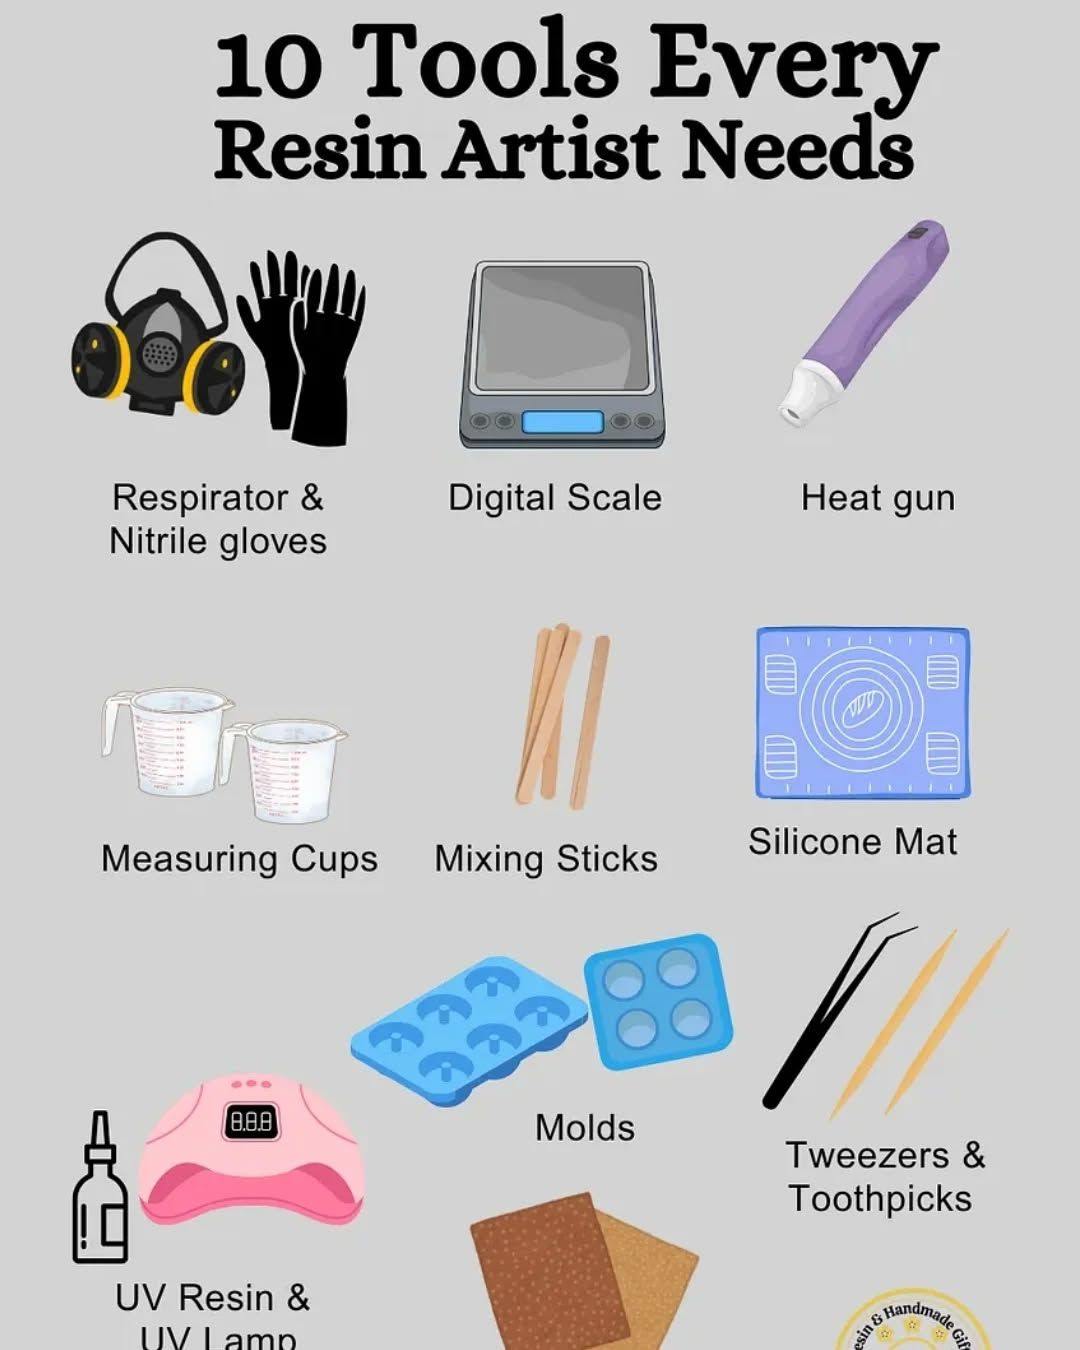
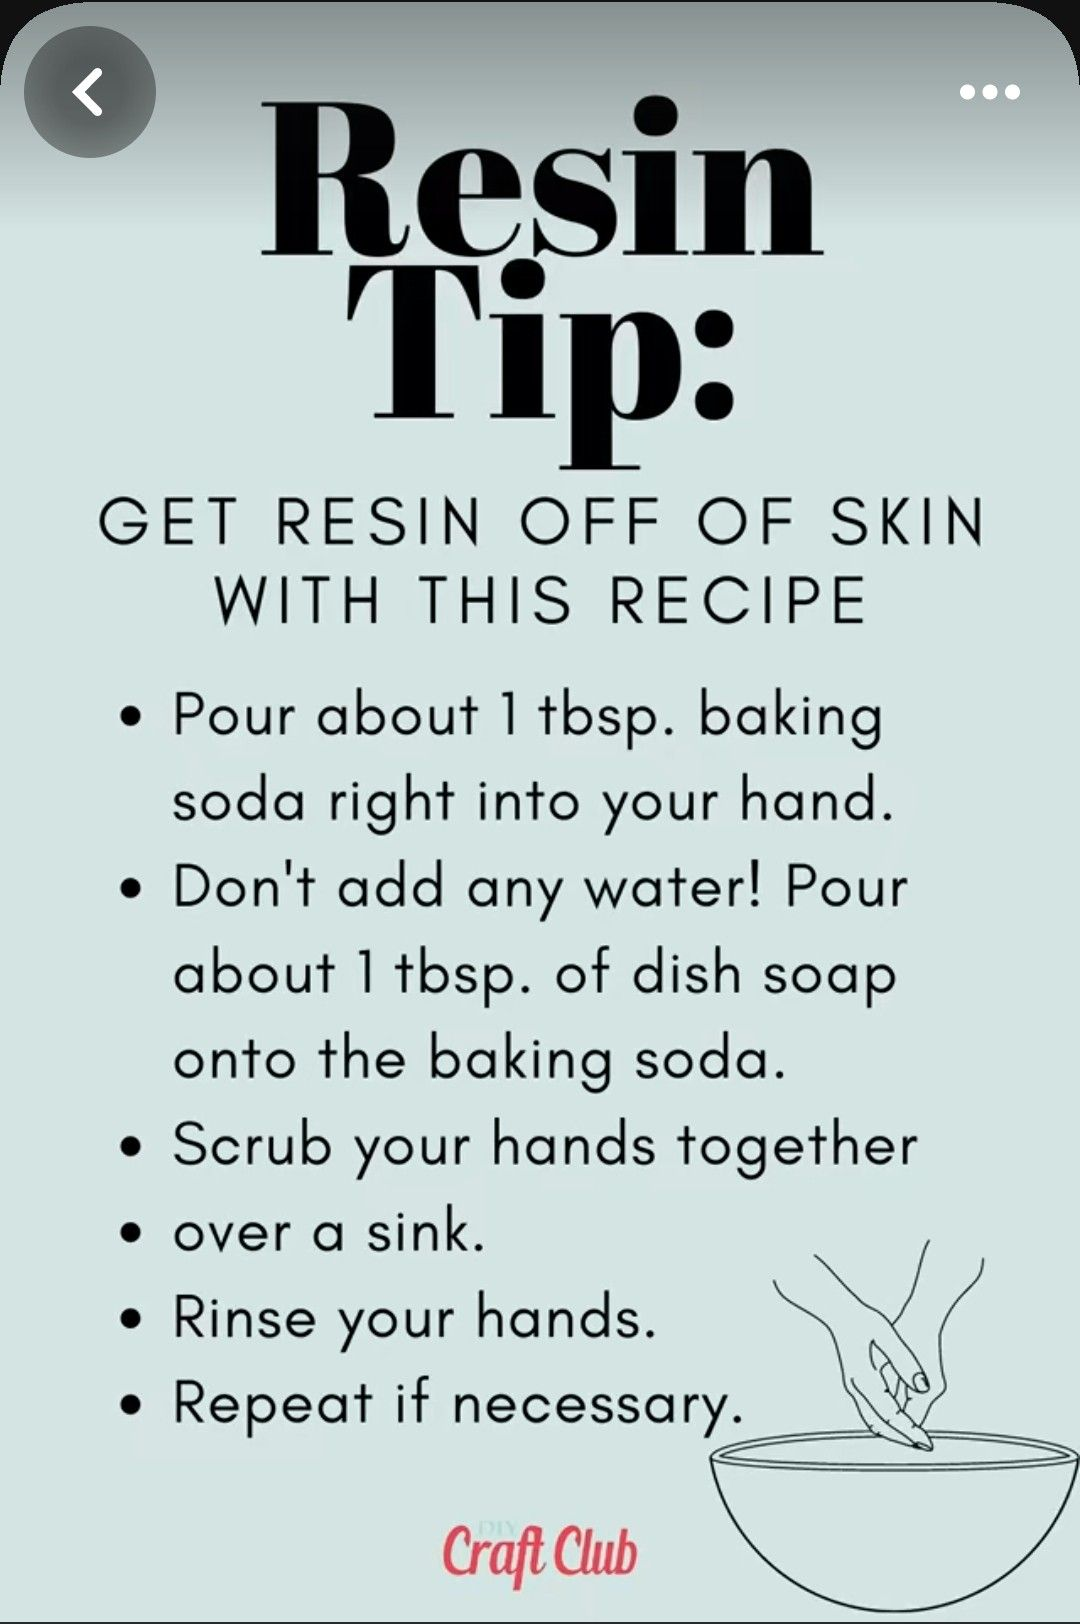
modify files

diff --git a/Home/home.html b/Home/home.html
@@ -10,6 +10,11 @@
   <script src="https://unpkg.com/lucide@latest/dist/umd/lucide.min.js"></script>
   <link rel="stylesheet" href="https://cdnjs.cloudflare.com/ajax/libs/font-awesome/7.0.1/css/all.min.css" integrity="sha512-2SwdPD6INVrV/lHTZbO2nodKhrnDdJK9/kg2XD1r9uGqPo1cUbujc+IYdlYdEErWNu69gVcYgdxlmVmzTWnetw==" crossorigin="anonymous" referrerpolicy="no-referrer" />
   <link rel="stylesheet" href="./home.css">
+  <script src="https://unpkg.com/lucide@latest"></script>
+
+<script>
+  lucide.createIcons();
+</script>
 </head>
 <body>
 
@@ -216,21 +221,21 @@
           <div class="showcase-card reveal">
             <div class="sc-img"><img src="./Images/wave.jpg" width="400" height="300" alt="Ocean Wave painting" loading="lazy" /></div>
             <div class="sc-body">
-              <h3>Ocean Wave Panel</h3><p>100×70 cm. Teal, white and gold pigment on birch board. Each wave is hand-poured for a unique finish.</p>
+              <h3>Ocean Wave Panel</h3><p>100×70 cm.Discover our latest Ocean Wave Wall Panels.these lightweight, fireproof, and waterproof panels fast installation and a sleek matt surface. Teal, white and gold pigment on birch board.</p>
               <div class="sc-meta"><span class="price">AED 1,800</span><a href="services.html" class="btn btn-primary btn-sm">Order Now</a></div>
             </div>
           </div>
           <div class="showcase-card reveal">
             <div class="sc-img"><img src="./Images/crystal.jpg" width="400" height="300" alt="Abstract geode art" loading="lazy" /></div>
             <div class="sc-body">
-              <h3>Crystal Geode Slice</h3><p>80×60 cm. Amethyst-inspired purple and silver pigments with crushed mica shimmer throughout.</p>
+              <h3>Crystal Geode Slice</h3><p>80×60 cm.Stunning geodes lined with quartz crystals have been cut into slices, Amethyst-inspired purple and silver pigments with crushed mica shimmer throughout.</p>
               <div class="sc-meta"><span class="price">AED 2,200</span><a href="services.html" class="btn btn-primary btn-sm">Order Now</a></div>
             </div>
           </div>
           <div class="showcase-card reveal">
             <div class="sc-img"><img src="./Images/desrt.jpg" width="400" height="300" alt="Desert sunset resin art" loading="lazy" /></div>
             <div class="sc-body">
-              <h3>Desert Sunset Canvas</h3><p>120×80 cm. Warm amber, burnt orange and crimson — a tribute to the desert horizon at dusk.</p>
+              <h3>Desert Sunset Canvas</h3><p>120×80 cm.Immerse yourself in the serene beauty of a desert sunset with this captivating wall art. Warm amber, burnt orange and crimson — a tribute to the desert horizon at dusk.</p>
               <div class="sc-meta"><span class="price">AED 2,900</span><a href="services.html" class="btn btn-primary btn-sm">Order Now</a></div>
             </div>
           </div>
@@ -433,37 +438,37 @@
       </div>
       <div class="awards-grid">
         <div class="award-card reveal">
-          <div class="award-icon"><i class="icon lucide-award"></i></div>
+          <div class="award-icon"><i class="icon" data-lucide="award"></i></div>
           <h3>Best Artisan Studio 2025</h3>
           <p>Dubai Design Week — voted by a panel of interior design professionals.</p>
           <span class="award-year">2025</span>
         </div>
         <div class="award-card reveal">
-          <div class="award-icon"><i class="icon lucide-star"></i></div>
+          <div class="award-icon"><i class="icon" data-lucide="star"></i></div>
           <h3>Top Creative Brand</h3>
           <p>Gulf Art &amp; Craft Fair — recognised for outstanding innovation in resin art.</p>
           <span class="award-year">2024</span>
         </div>
         <div class="award-card reveal">
-          <div class="award-icon"><i class="icon lucide-globe"></i></div>
+          <div class="award-icon"><i class="icon" data-lucide="globe"></i></div>
           <h3>International Craft Export Award</h3>
           <p>UAE Ministry of Culture — for expanding handmade art exports to 12+ countries.</p>
           <span class="award-year">2024</span>
         </div>
         <div class="award-card reveal">
-          <div class="award-icon"><i class="icon lucide-heart"></i></div>
+          <div class="award-icon"><i class="icon" data-lucide="heart"></i></div>
           <h3>Community Choice Award</h3>
           <p>Etsy UAE Community — highest-rated handmade home decor shop three years running.</p>
           <span class="award-year">2023–25</span>
         </div>
         <div class="award-card reveal">
-          <div class="award-icon"><i class="icon lucide-shield-check"></i></div>
+          <div class="award-icon"><i class="icon" data-lucide="shield-check"></i></div>
           <h3>Eco-Conscious Studio Cert.</h3>
           <p>Certified by Green Arts Initiative for sustainable sourcing and low-waste practices.</p>
           <span class="award-year">2023</span>
         </div>
         <div class="award-card reveal">
-          <div class="award-icon"><i class="icon lucide-trending-up"></i></div>
+          <div class="award-icon"><i class="icon" data-lucide="trending-up"></i></div>
           <h3>Fastest-Growing Art Brand</h3>
           <p>Forbes Middle East — featured in their 2023 creative economy spotlight edition.</p>
           <span class="award-year">2023</span>
@@ -488,7 +493,7 @@
     <div class="container">
       <div class="section-heading reveal" style="color:var(--text-on-dark)">
         <span class="section-eyebrow" style="color:var(--amber)">By the Numbers</span>
-        <h2 style="color:var(--text-on-dark)">ResinLux <span style="color:var(--secondary)">At a Glance</span></h2>
+        <h2 style="color:var(--text-on-dark)">ResinCraftStudio <span style="color:var(--secondary)">At a Glance</span></h2>
         <p style="color:rgba(255,255,255,0.75)">Six years of craftsmanship, community, and colour captured in a single snapshot.</p>
       </div>
       <div class="numbers-grid">
@@ -538,27 +543,27 @@
         <div class="tutorial-card featured reveal">
           <div class="tut-thumb">
             <img src="./Images/begin.jpg" width="700" height="420" alt="Beginner resin pour tutorial" loading="lazy" />
-            <div class="play-btn" aria-label="Play tutorial video"><i class="icon lucide-play-circle"></i></div>
+
             <span class="tut-badge">Most Watched</span>
           </div>
           <div class="tut-info">
             <span class="tut-tag">Beginner</span>
             <h3>Your First Resin Pour — Complete Guide</h3>
-            <p>45 min walkthrough covering tools, safety, colour mixing, and your first poured piece from start to finish.</p>
-            <div class="tut-meta"><i class="icon lucide-clock"></i> 45 min <i class="icon lucide-eye" style="margin-left:1rem"></i> 128k views</div>
+            <p>Step-by-step guide to beginner epoxy resin crafting, covering safety precautions, required tools, and preparation. Demonstrates two methods: a two-pour technique with confetti or decorative inserts, and a one-pour metallic effect using mica powder and glitter. Includes tips for reducing bubbles, working with small moulds, and creating charms or gifts.45 min walkthrough covering tools, safety, colour mixing, and your first poured piece from start to finish.</p>
+            <div class="tut-meta"><i class="icon" data-lucide="clock"></i> 45 min <i class="icon" data-lucide="eye"style="margin-left:1rem"></i> 128k views <a href="services.html#workshops" class="btn btn-primary btn-sm " style="margin-left: 24rem;">Book</a></div>
           </div>
         </div>
         <div class="tut-side-list">
           <div class="tutorial-card reveal">
             <div class="tut-thumb sm">
               <img src="./Images/ocean.jpg" width="300" height="200" alt="Ocean effect tutorial" loading="lazy" />
-              <div class="play-btn sm" aria-label="Play"><i class="icon lucide-play-circle"></i></div>
+
             </div>
             <div class="tut-info sm">
               <span class="tut-tag">Intermediate</span>
               <h3>Creating the Ocean Effect</h3>
               <p>Layering technique for realistic wave movement using alcohol ink and silicone oil.</p>
-              <div class="tut-meta"><i class="icon lucide-clock"></i> 22 min</div>
+              <div class="tut-meta"><i class="icon" data-lucide="clock"></i> 22 min<a href="services.html#workshops" class="btn btn-primary btn-sm " style="margin-left: 6rem;">Book</a></div>
             </div>
           </div>
           <div class="tutorial-card reveal">
@@ -570,7 +575,7 @@
               <span class="tut-tag">Beginner</span>
               <h3>Resin Jewellery — Pendants &amp; Rings</h3>
               <p>Using silicone moulds to cast your first wearable piece. Tools list included.</p>
-              <div class="tut-meta"><i class="icon lucide-clock"></i> 18 min</div>
+              <div class="tut-meta"><i class="icon" data-lucide="clock"></i> 18 min<a href="services.html#workshops" class="btn btn-primary btn-sm " style="margin-left: 6rem;">Book</a></div>
             </div>
           </div>
           <div class="tutorial-card reveal">
@@ -582,7 +587,7 @@
               <span class="tut-tag">Advanced</span>
               <h3>Geode Art — Crystal Clusters</h3>
               <p>Glass glitter, crushed stone and layered pigment to build a convincing geode slice.</p>
-              <div class="tut-meta"><i class="icon lucide-clock"></i> 35 min</div>
+              <div class="tut-meta"><i class="icon" data-lucide="clock"></i> 35 min<a href="services.html#workshops" class="btn btn-primary btn-sm " style="margin-left: 6rem;">Book</a></div>
             </div>
           </div>
         </div>

diff --git a/index.html b/index.html
@@ -34,9 +34,9 @@
 
         <!-- Home — with dropdown -->
 <li class="nav-item nav-has-dropdown">
-  <a href="/index.html" class="nav-link">Home</a>
+  <a href="/index.html" class="nav-link active">Home</a>
   <ul class="nav-dropdown" id="dd-home">
-    <li><a href="./index.html" class="dd-link">Home 1</a></li>
+    <li><a href="./index.html" class="dd-link active">Home 1</a></li>
     <li><a href="../Home/home.html" class="dd-link">Home 2</a></li>
   </ul>
 </li>
@@ -610,38 +610,41 @@
       <div class="blog-grid">
         <div class="blog-card blog-feat" data-animate="fade-up">
           <div class="blog-img">
-            <img src="/Images/b1.jpg" alt="Blog Feature" width="700" height="380">
+            <img src="/Images/b1.jpg" alt="Blog Feature" >
             <span class="blog-cat">Resin Tips</span>
           </div>
           <div class="blog-body">
             <div class="blog-meta">Jan 28, 2025 &middot; 8 min read</div>
-            <h3>10 Essential Resin Art Tips for Stunning Results Every Time</h3>
-            <p>Master the fundamentals of resin pouring with our comprehensive guide covering temperature, ratios, bubble elimination, and finishing techniques.</p>
+            <h3>10 Resin Art Tips for Stunning Results Every Time</h3>
+            <p>Always protect your workspace with non-stick surfaces, drop cloths, or silicone mats, as resin can spill or drip easily,Master the fundamentals of resin pouring with our comprehensive guide covering temperature, ratios, bubble elimination, and finishing techniques.</p>
             <a href="../Blog/blog.html" class="link-arrow">Read Full Article →</a>
           </div>
         </div>
-        <div class="blog-card" data-animate="fade-up" style="--delay:0.1s">
+        <div class="blog-card blog-feat" data-animate="fade-up" style="--delay:0.1s">
           <div class="blog-img">
-            <img src="/Images/color theory.jpg" alt="Color Theory" width="380" height="220">
+            <img src="/Images/color theory.jpg" alt="Color Theory" >
             <span class="blog-cat">Color Theory</span>
           </div>
           <div class="blog-body">
             <div class="blog-meta">Jan 20, 2025 &middot; 5 min read</div>
             <h3>Understanding Color Mixing in Resin Art</h3>
-            <p>Discover how to create stunning color combinations and avoid muddy mixtures in your resin projects.</p>
-            <a href="../Blog/blog.html" class="link-arrow">Read More →</a>
+            <p>Color mixing in resin art involves crucisl skill that can transform a simple project into a premium, high-value Product.combining resin with compatible pigments,dyes using the right ratios and techniques to create avoid muddy mixtures in resin projects.</p>
+            <a href="../Blog/blog.html" class="link-arrow">Read Full Article →</a>
           </div>
         </div>
-        <div class="blog-card" data-animate="fade-up" style="--delay:0.2s">
+        <div class="blog-card blog-feat" data-animate="fade-up" style="--delay:0.2s">
           <div class="blog-img">
-            <img src="/Images/diy.jpg" alt="DIY Guide" width="380" height="220">
+            <img src="/Images/diy.jpg" alt="DIY Guide">
             <span class="blog-cat">DIY Guide</span>
           </div>
           <div class="blog-body">
             <div class="blog-meta">Jan 14, 2025 &middot; 6 min read</div>
             <h3>DIY Resin Coaster Set: Step-by-Step Guide</h3>
-            <p>Create beautiful personalized coasters using resin art techniques in this beginner-friendly tutorial.</p>
-            <a href="../Blog/blog.html" class="link-arrow">Read More →</a>
+            <p>Steps for Workspace Setup:
+Cover surfaces with a plastic drop cloth or newspaper to catch any spills.
+Ensure there is no direct sunlight on the workspace, as this can affect the curing process of the resin.
+Have all your materials within reach before starting to minimize interruptions.</p>
+            <a href="../Blog/blog.html" class="link-arrow">Read Full Article →</a>
           </div>
         </div>
       </div>

diff --git a/LoginRegister/login.html b/LoginRegister/login.html
@@ -26,13 +26,13 @@
     </button>
   </div>
 
-  <div class="auth-page">
-    <!-- Tab Switch -->
-    <div class="tab-switch" id="tabSwitch">
+  <!-- <div class="auth-page">
+   Tab Switch -->
+    <!-- <div class="tab-switch" id="tabSwitch">
       <button class="tab-btn active" data-tab="login" id="tabLogin">Log In</button>
       <div class="tab-divider"></div>
       
-    </div>
+    </div>  -->
 
     <!-- 3D Flip Card -->
     <div class="card-3d-wrap">

diff --git a/LoginRegister/register.html b/LoginRegister/register.html
@@ -20,7 +20,7 @@
 <section class="auth-page">
 
   <!-- TAB -->
-  <div class="tab">SIGN UP</div>
+  <!-- <div class="tab">SIGN UP</div> -->
 
   <div class="card">
 

diff --git a/LoginRegister/register.css b/LoginRegister/register.css
@@ -301,3 +301,4 @@ input:focus {
     max-width: 450px;
   }
 }
+
